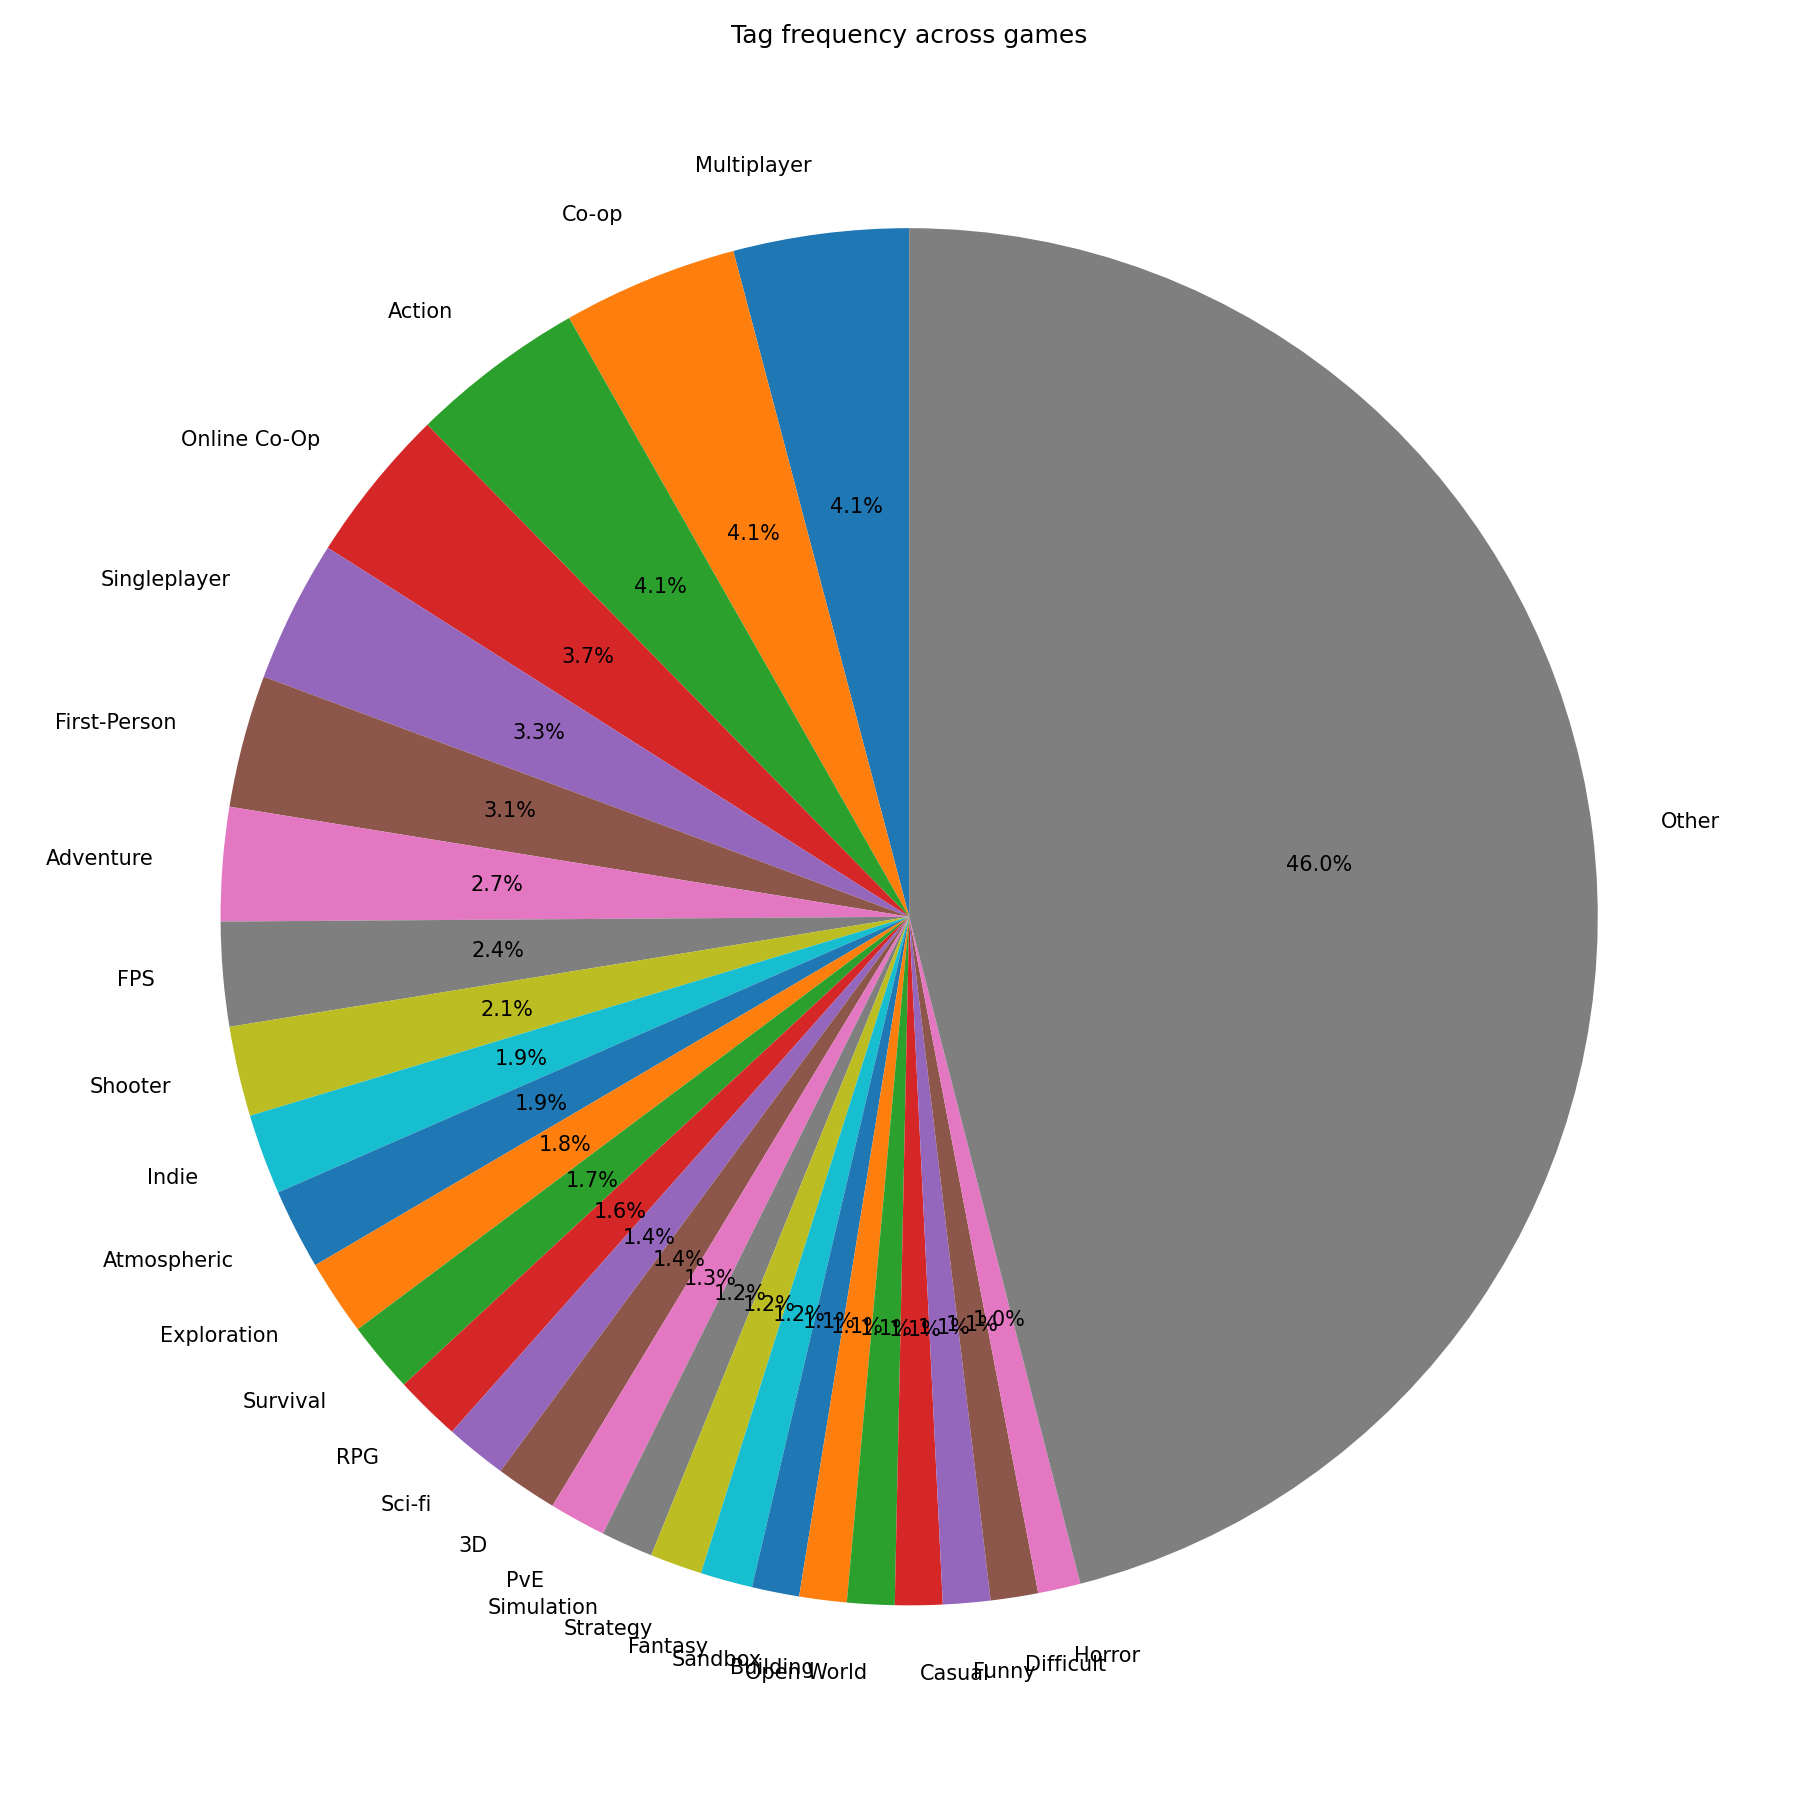
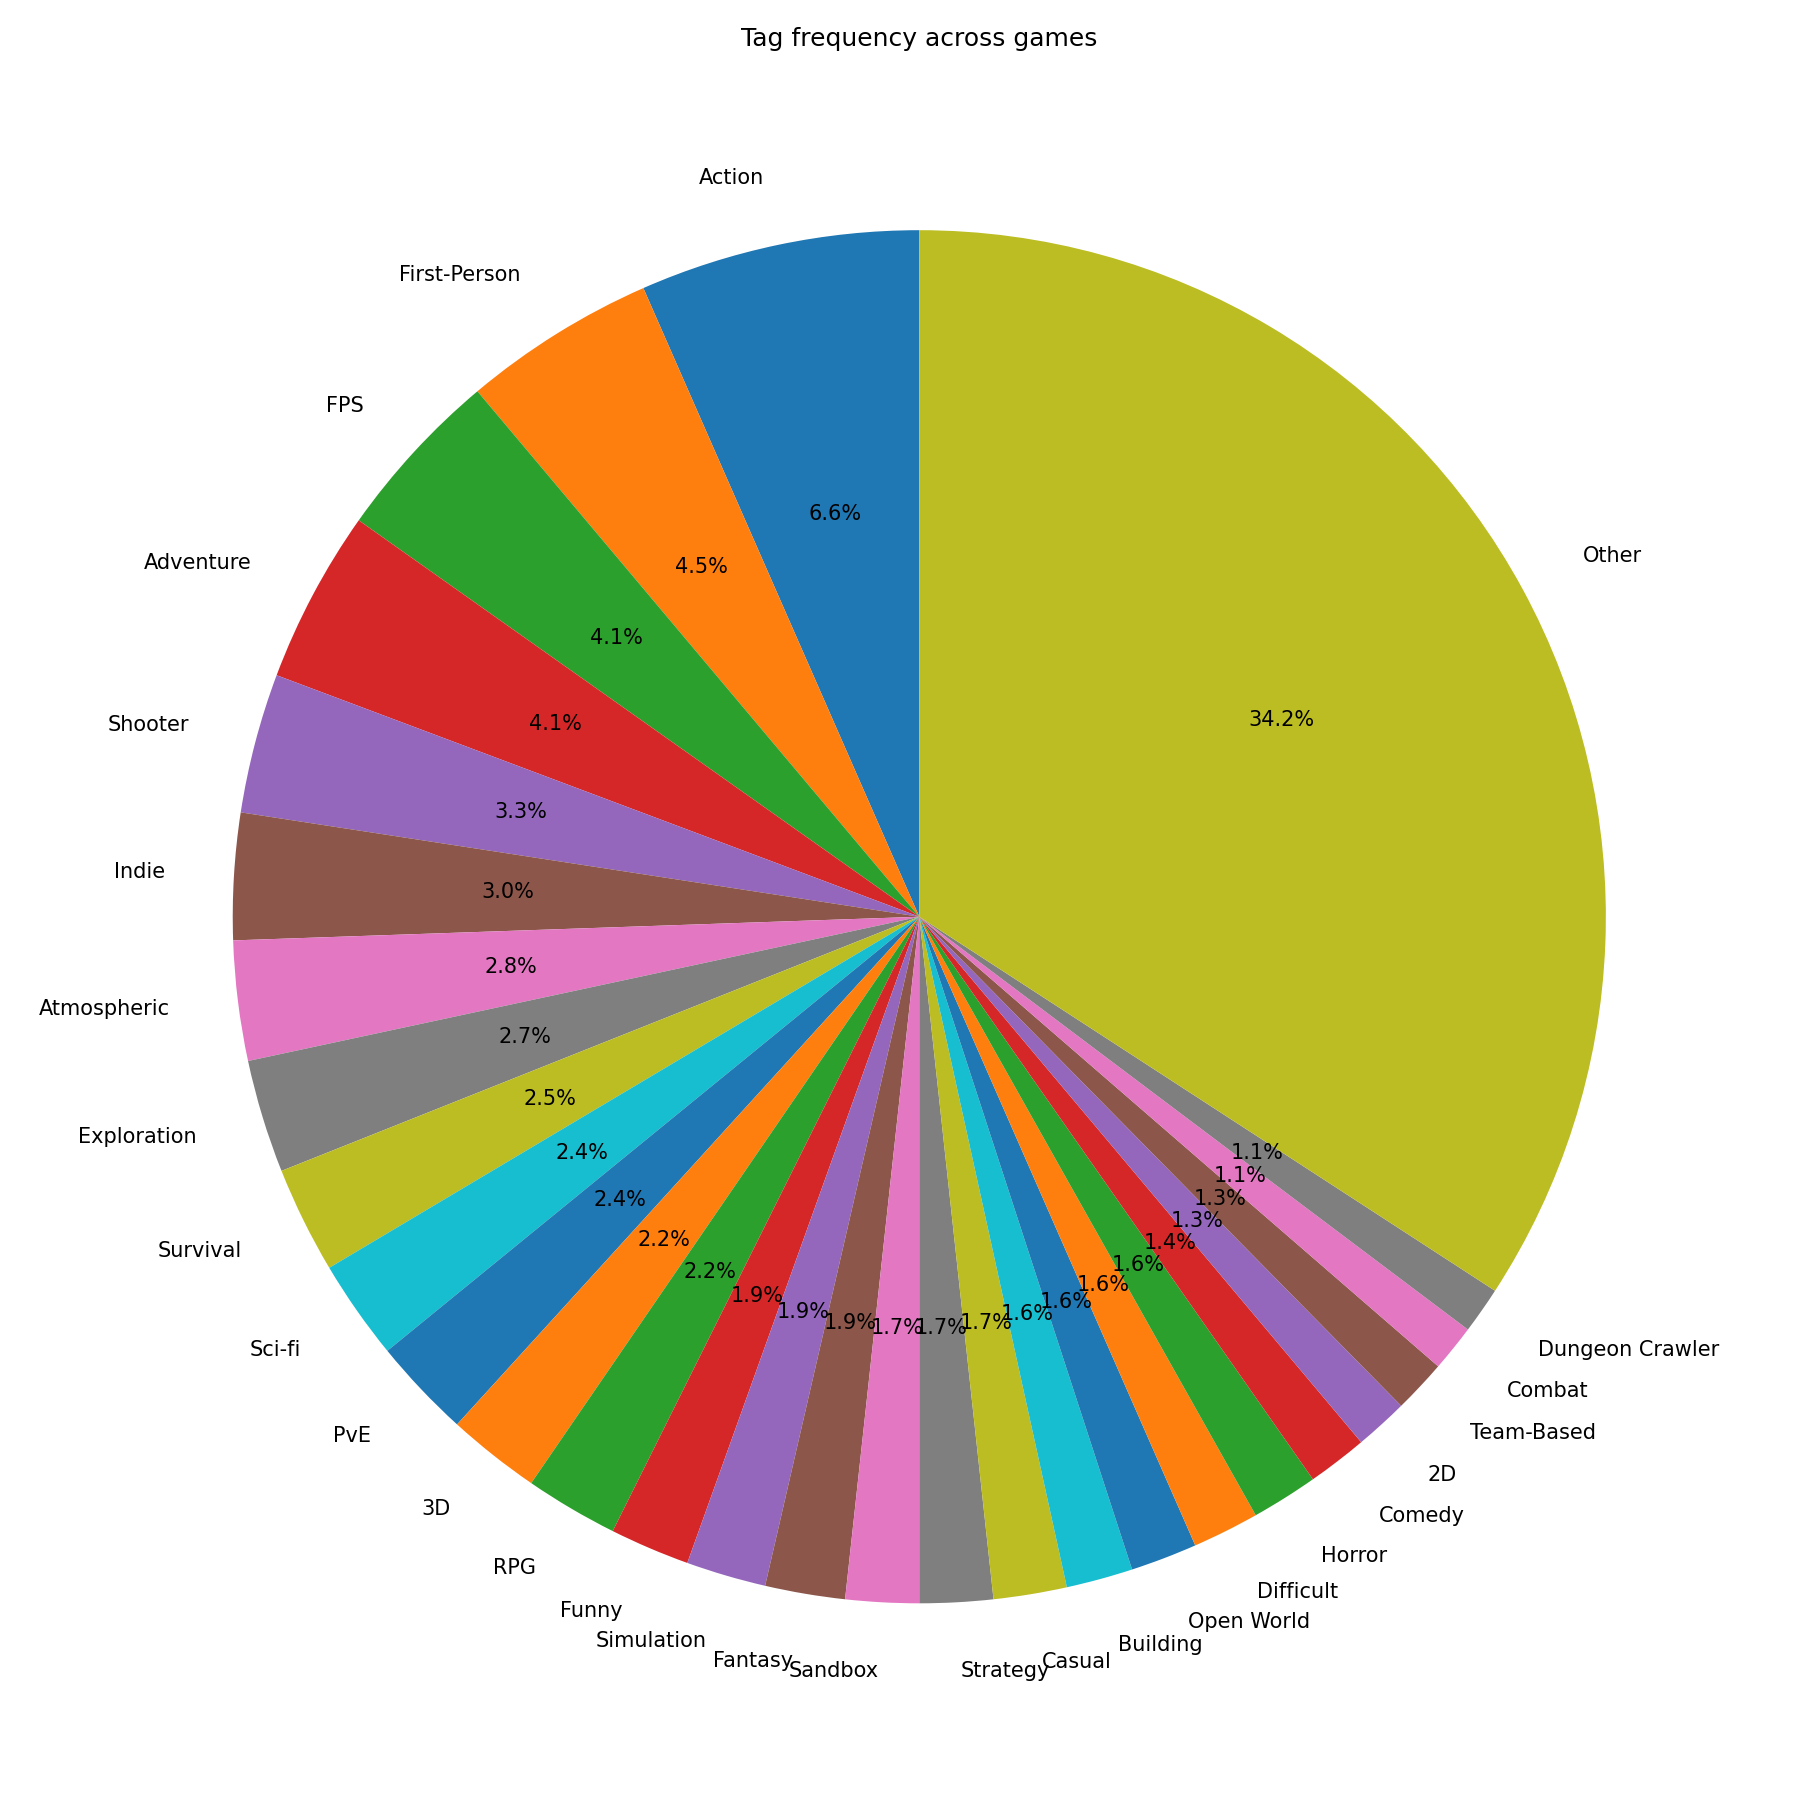
added network graph for tags, changed tag count pie chart into treemap

diff --git a/main.py b/main.py
@@ -5,6 +5,23 @@ import re
 import unicodedata
 
 import matplotlib.pyplot as plt
+import networkx as nx
+import squarify
+
+
+EXCLUDED_TAGS = {
+	"multiplayer",
+	"co-op",
+	"online co-op",
+	"singleplayer",
+	"character customization",
+	"early access",
+	"controller",
+	"great soundtrack",
+	"local co-op",
+	"massively multiplayer",
+	"moddable",
+}
 
 
 def normalize_key(text: str) -> str:
@@ -91,6 +108,8 @@ def compute_tag_averages(users, reviews, game_tags, min_count=3):
 
 		tags = tag_entry["tags"]
 		for tag in tags:
+			if tag.strip().casefold() in EXCLUDED_TAGS:
+				continue
 			stats = tag_stats.setdefault(tag, {"count": 0, "sums": {user: 0.0 for user in users}})
 			stats["count"] += 1
 			for user in users:
@@ -159,35 +178,28 @@ def plot_tag_heatmap(tag_stats, users, output_path, min_count=3):
 	plt.close()
 
 
-def plot_tag_counts_pie(tag_stats, output_path, min_percent=1.0):
+def plot_tag_counts_treemap(tag_stats, output_path, min_count=3):
 	if not tag_stats:
 		return
 
-	items = sorted(tag_stats.items(), key=lambda item: item[1]["count"], reverse=True)
-	total = sum(stats["count"] for _, stats in items)
-	if total == 0:
+	items = [item for item in tag_stats.items() if item[1]["count"] >= min_count]
+	items = sorted(items, key=lambda item: item[1]["count"], reverse=True)
+
+	if not items:
 		return
 
-	labels = []
-	counts = []
-	other_count = 0
-	threshold = total * (min_percent / 100.0)
-	for tag, stats in items:
-		count = stats["count"]
-		if count < threshold:
-			other_count += count
-		else:
-			labels.append(tag)
-			counts.append(count)
-	if other_count > 0:
-		labels.append("Other")
-		counts.append(other_count)
+	labels = [tag for tag, _ in items]
+	counts = [stats["count"] for _, stats in items]
 
-	plt.figure(figsize=(12, 12))
-	plt.pie(counts, labels=labels, autopct="%1.1f%%", startangle=90)
-	plt.title("Tag frequency across games")
+	plt.figure(figsize=(14, 10))
+	# Create softer, pastel-like colors by blending with white
+	base_colors = [plt.cm.hsv(i / len(labels)) for i in range(len(labels))]
+	colors = [(r * 0.6 + 1 * 0.4, g * 0.6 + 1 * 0.4, b * 0.6 + 1 * 0.4, a) for r, g, b, a in base_colors]
+	squarify.plot(sizes=counts, label=labels, ax=plt.gca(), color=colors, text_kwargs={"fontsize": 9})
+	plt.title("Tag frequency across games", fontsize=16, fontweight="bold")
+	plt.axis("off")
 	plt.tight_layout()
-	plt.savefig(output_path, dpi=150)
+	plt.savefig(output_path, dpi=150, bbox_inches="tight")
 	plt.close()
 
 
@@ -232,6 +244,64 @@ def compute_user_agreement(users, reviews):
 				correlation_matrix[i][j] = 0.0
 	
 	return correlation_matrix
+
+
+def build_tag_network(game_tags):
+	"""Build network of tags that appear together in games."""
+	G = nx.Graph()
+	
+	for game, info in game_tags.items():
+		tags = info["tags"]
+		# Add nodes
+		for tag in tags:
+			if tag not in G:
+				G.add_node(tag)
+		# Add edges between all tag pairs in this game
+		for i, tag1 in enumerate(tags):
+			for tag2 in tags[i+1:]:
+				if G.has_edge(tag1, tag2):
+					G[tag1][tag2]["weight"] += 1
+				else:
+					G.add_edge(tag1, tag2, weight=1)
+	
+	return G
+
+
+def plot_tag_network(game_tags, output_path):
+	"""Visualize tag co-occurrence network."""
+	G = build_tag_network(game_tags)
+	
+	if len(G.nodes()) == 0:
+		return
+	
+	plt.figure(figsize=(18, 14))
+	# Use spring layout for better visualization
+	pos = nx.spring_layout(G, k=2, iterations=50, seed=42)
+	
+	# Color nodes by degree (number of connections)
+	node_degrees = dict(G.degree())
+	node_colors = [node_degrees[node] for node in G.nodes()]
+	max_degree = max(node_degrees.values()) if node_degrees else 1
+	
+	# Draw nodes with color gradient based on degree
+	nodes = nx.draw_networkx_nodes(G, pos, node_color=node_colors, node_size=2000, 
+	                                cmap="YlOrRd", vmin=0, vmax=max_degree, ax=plt.gca())
+	
+	# Draw edges with varying width based on weight
+	edges = G.edges()
+	weights = [G[u][v]["weight"] for u, v in edges]
+	max_weight = max(weights) if weights else 1
+	edge_widths = [3 * (w / max_weight) for w in weights]
+	nx.draw_networkx_edges(G, pos, width=edge_widths, alpha=0.5, ax=plt.gca())
+	
+	# Draw labels with smaller font
+	nx.draw_networkx_labels(G, pos, font_size=7, font_weight="bold", ax=plt.gca())
+	
+	plt.title("Tag Co-occurrence Network", fontsize=16, fontweight="bold")
+	plt.axis("off")
+	plt.tight_layout()
+	plt.savefig(output_path, dpi=150, bbox_inches="tight")
+	plt.close()
 
 
 def plot_user_agreement_matrix(users, reviews, output_path):
@@ -279,8 +349,13 @@ def main():
 		os.path.join(output_dir, "tag_heatmap.png"),
 		min_count=3,
 	)
-	plot_tag_counts_pie(tag_stats, os.path.join(output_dir, "tag_counts_pie.png"))
+	plot_tag_counts_treemap(
+		tag_stats,
+		os.path.join(output_dir, "tag_counts_treemap.png"),
+		min_count=3,
+	)
 	plot_user_agreement_matrix(users, reviews, os.path.join(output_dir, "user_agreement.png"))
+	plot_tag_network(game_tags, os.path.join(output_dir, "tag_network.png"))
 
 	if unmatched:
 		print("Unmatched games (not found in gametags.json):")
